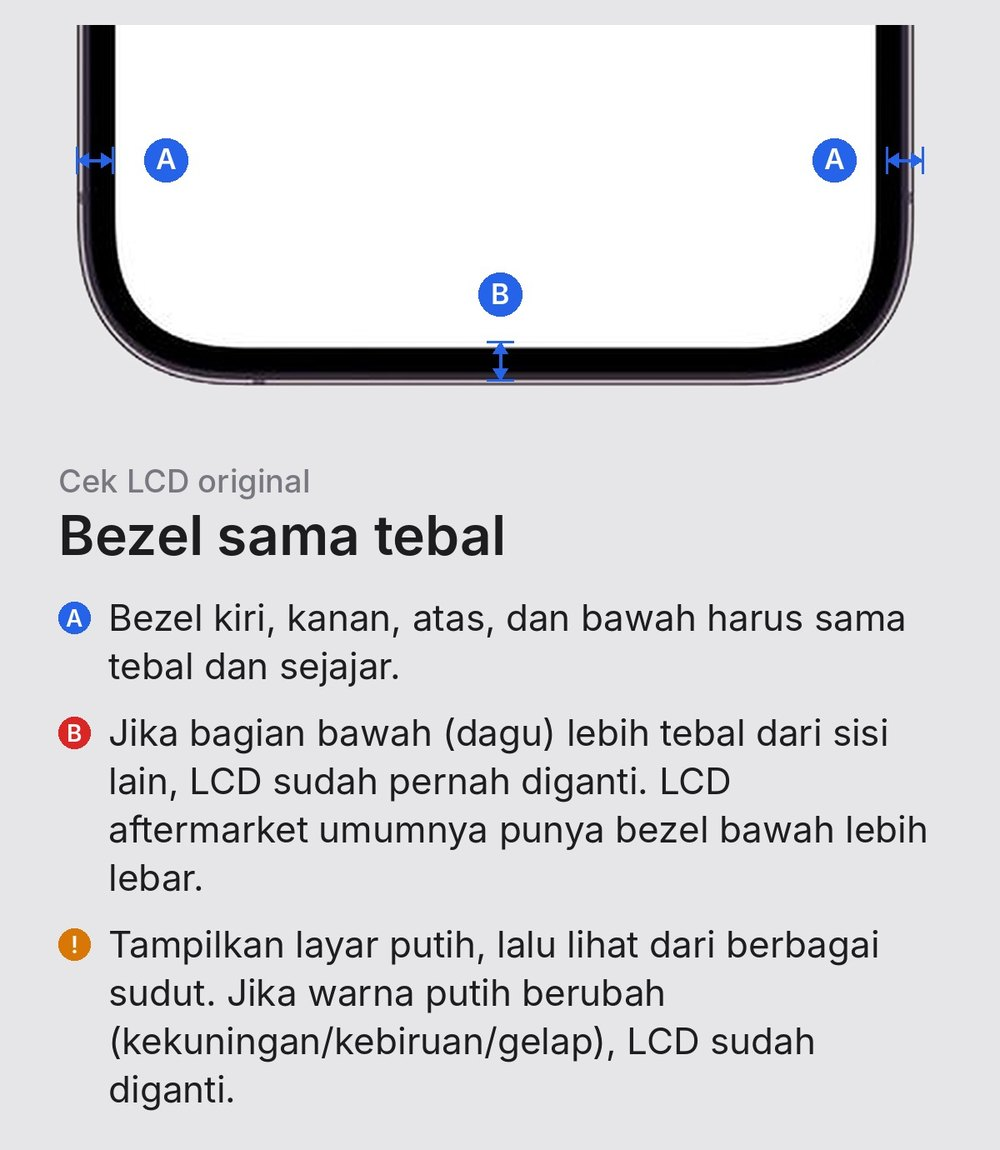
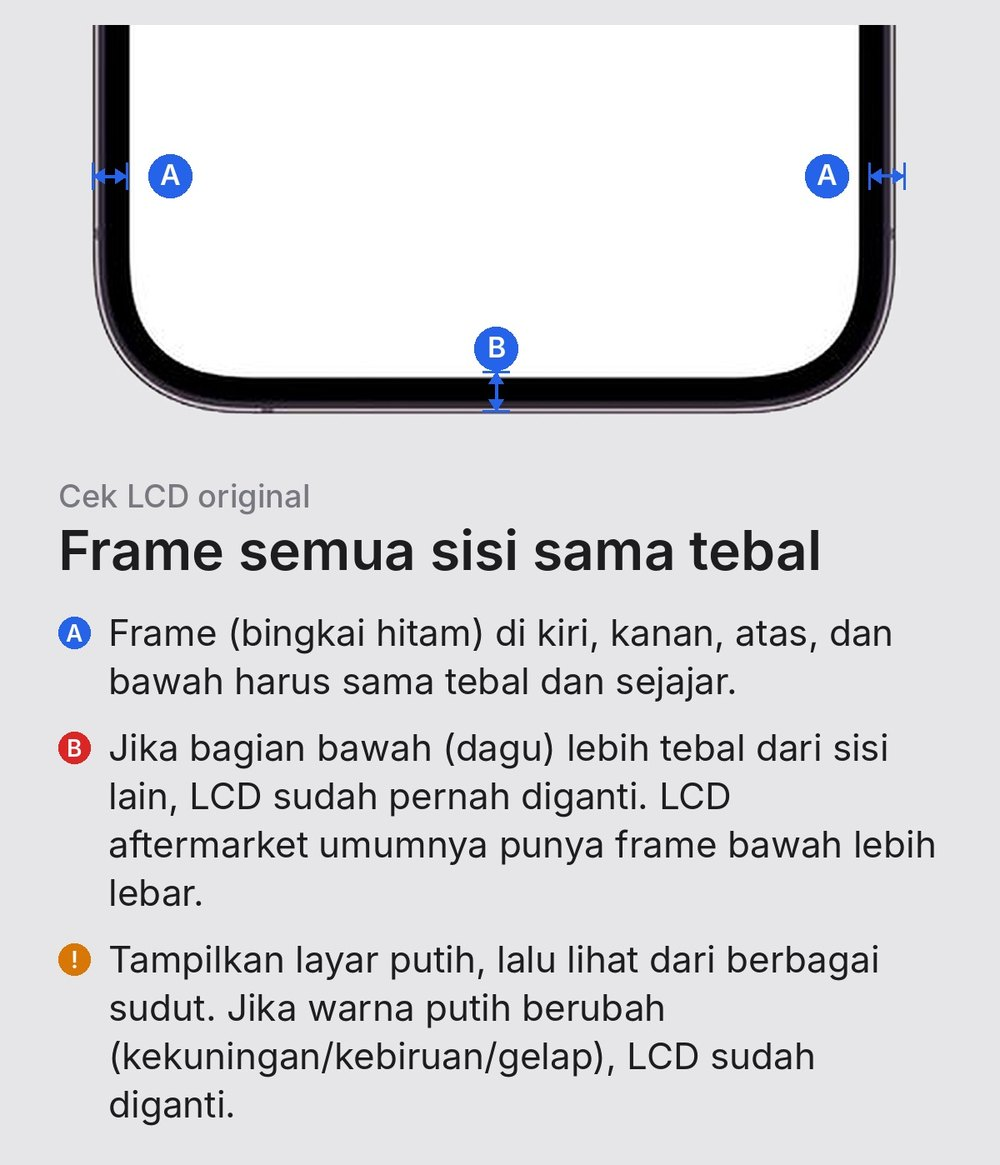
Gambar cek LCD: ganti 'Bezel sama tebal' jadi 'Frame semua sisi sama tebal'
Claude-Session: https://claude.ai/code/session_01T5xMfUmYxqi5fKuphGFddX

diff --git a/index.html b/index.html
@@ -357,7 +357,7 @@ const SEC=[
 "s": "Status LCD",
 "d": "Tanyakan ke penjual, cek pesan/peringatan layar atau menu Parts and Service History di Settings › General › About, dan cek apakah tombol True Tone ada di Control Center (tahan slider kecerahan). Cek juga Auto-Brightness di bagian Pengecekan Fungsi.",
 "w": [
-"Bezel (bingkai hitam) harus sama tebal di semua sisi. Jika bagian bawah/dagu lebih tebal, atau layar terangkat dan bercelah dari frame, LCD sudah pernah diganti. Tampilkan layar putih dan lihat dari berbagai sudut: jika warnanya berubah, itu juga tanda LCD gantian.",
+"Frame (bingkai hitam) di semua sisi harus sama tebal. Jika bagian bawah/dagu lebih tebal, atau layar terangkat dan bercelah dari frame, LCD sudah pernah diganti. Tampilkan layar putih dan lihat dari berbagai sudut: jika warnanya berubah, itu juga tanda LCD gantian.",
 "Jika LCD sudah diganti (bukan original), responsivitas layar akan menurun: sentuhan bisa kurang peka atau delay, warna dan kecerahan bisa berbeda, fitur seperti True Tone atau Auto-Brightness bisa hilang, dan lebih mudah bermasalah.",
 "Nilai jual unit juga lebih rendah, jadi pastikan harga disesuaikan dan penjual jujur soal ini."
 ],

diff --git a/sw.js b/sw.js
@@ -1,4 +1,4 @@
-const C="cek-iphone-v33";
+const C="cek-iphone-v34";
 const CORE=["./","./index.html"];
 self.addEventListener("install",e=>{
   // cache:"reload" = ambil langsung dari server, jangan dari cache browser
